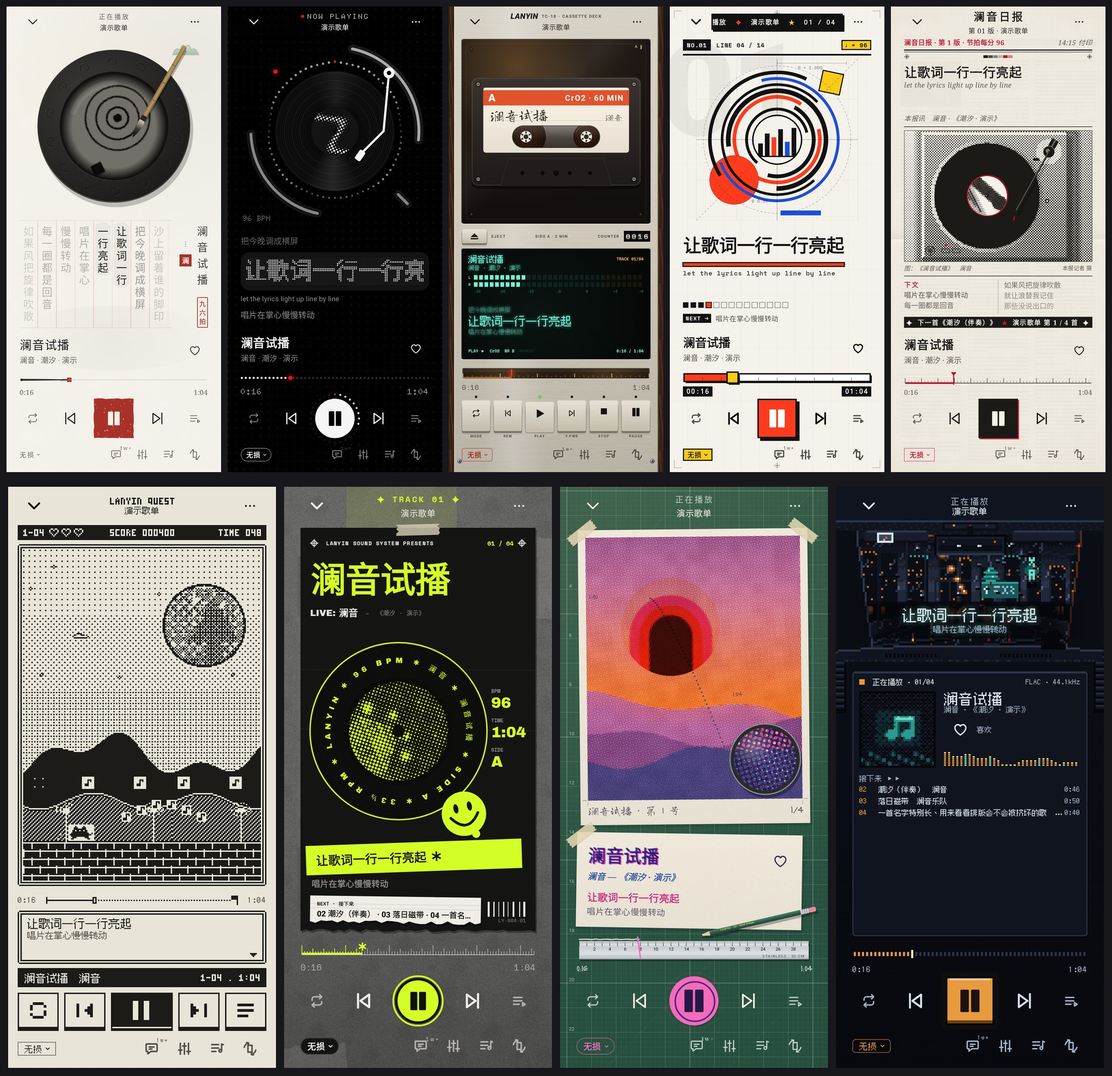
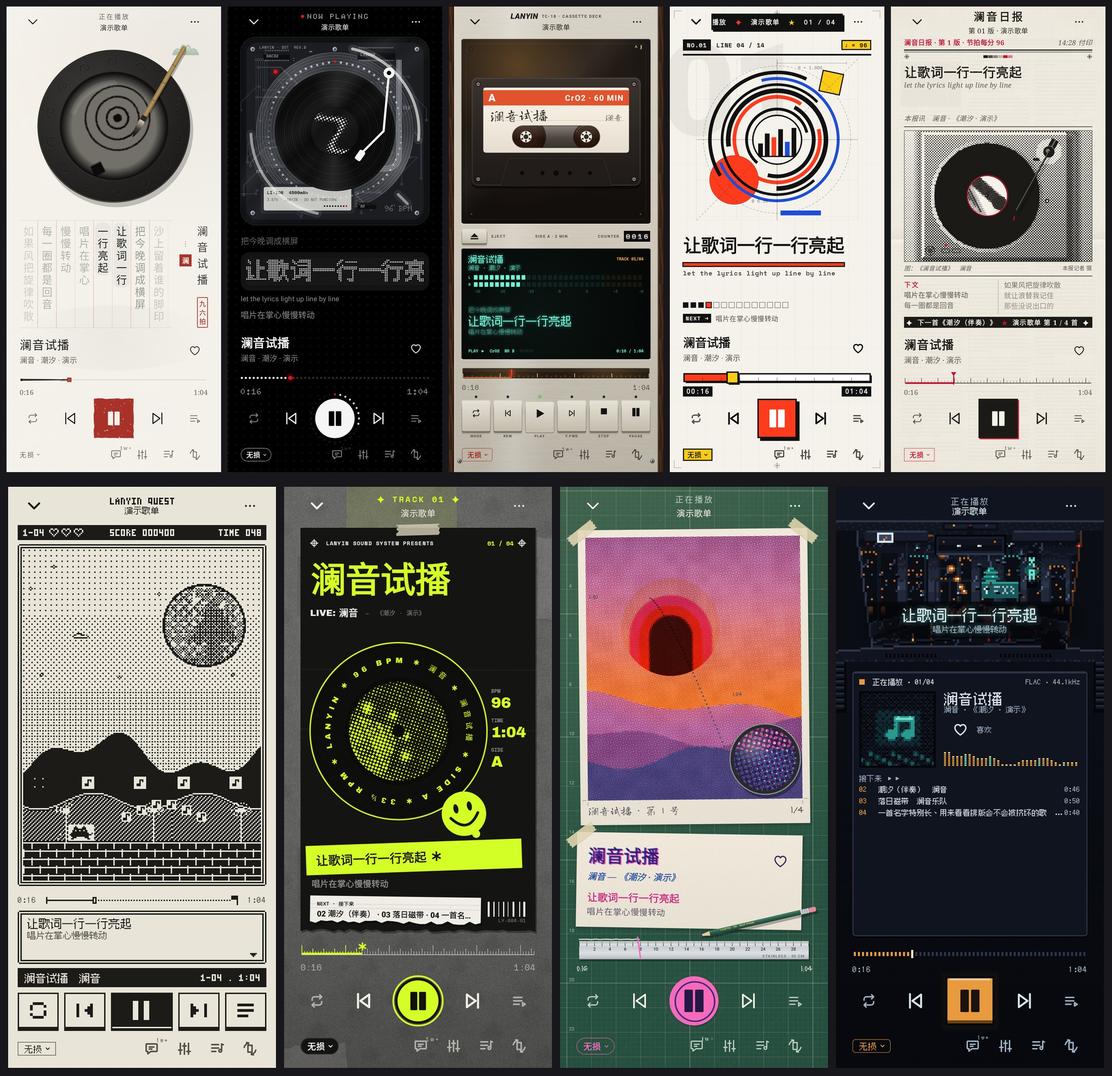
点: seen through its clear back — the board, a coil under the record, the light strips
- Player: the record sits on the device's insides seen through smoked acrylic: a printed
  circuit board with routed traces and vias and a hatched ground pour, chips with their pins and
  markings, passives scattered over it, a pale flex cable folding to the edge, the battery under
  its label, screws at the corners, silk-screen labels; a charging coil of silver-grey wire under
  the record, the light strips round it lit by the bass, mids and treble. All in the theme's
  greys, the red dot still the only colour. The still parts are drawn once into a picture for
  their size; the acrylic's edge and sheen lie over everything. Landscape uses the same back.
- README and PLAN updated (M20 done: all nine themes upgraded); the 点 sheet regenerated.

Claude-Session: https://claude.ai/code/session_01B9QYm7eqM8MabVq3G7cMEc

Changed region(s): [[0.2168, 0.0312, 0.4027, 0.2181]]

diff --git a/music-player/app/src/main/java/io/lanyin/player/ui/design/Gadget.kt b/music-player/app/src/main/java/io/lanyin/player/ui/design/Gadget.kt
@@ -1,0 +1,240 @@
+package io.lanyin.player.ui.design
+
+import androidx.compose.foundation.layout.Box
+import androidx.compose.foundation.layout.BoxScope
+import androidx.compose.runtime.Composable
+import androidx.compose.ui.Modifier
+import androidx.compose.ui.draw.CacheDrawScope
+import androidx.compose.ui.draw.drawWithCache
+import androidx.compose.ui.geometry.CornerRadius
+import androidx.compose.ui.geometry.Offset
+import androidx.compose.ui.geometry.Size
+import androidx.compose.ui.graphics.Brush
+import androidx.compose.ui.graphics.Color
+import androidx.compose.ui.graphics.ImageBitmap
+import androidx.compose.ui.graphics.Path
+import androidx.compose.ui.graphics.StrokeCap
+import androidx.compose.ui.graphics.StrokeJoin
+import androidx.compose.ui.graphics.drawscope.CanvasDrawScope
+import androidx.compose.ui.graphics.drawscope.DrawScope
+import androidx.compose.ui.graphics.drawscope.Stroke
+import androidx.compose.ui.graphics.drawscope.rotate
+import androidx.compose.ui.text.TextMeasurer
+import androidx.compose.ui.text.TextStyle
+import androidx.compose.ui.text.drawText
+import androidx.compose.ui.text.font.FontWeight
+import androidx.compose.ui.text.rememberTextMeasurer
+import androidx.compose.ui.unit.sp
+import io.lanyin.player.ui.theme.SpaceMonoFamily
+import kotlin.math.PI
+import kotlin.math.cos
+import kotlin.math.sin
+
+/*
+ * 点's device, seen through its clear back: smoked acrylic over the board. A printed circuit
+ * board with its traces and vias, the chips with their markings, a charging coil of silver-grey
+ * wire where the record sits, a pale flex cable folding away to the edge, the battery under its label and the
+ * screws that hold it all; drawn once into a picture for its size. The lights and the record go
+ * on top.
+ */
+
+object Gadget {
+    val Board = Color(0xFF1B1D21)
+    val Trace = Color(0xFF3B3F47)
+    // Everything inside is in the theme's greys: the one colour stays the red dot.
+    val Wire = Color(0xFF8E9298)
+    val Flex = Color(0xFFB9BCC1)
+    val Chip = Color(0xFF0C0D0F)
+    val Silk = Color(0xFFD9D9D4)
+    val Steel = Color(0xFF9EA2A8)
+    val Acrylic = Color(0xFF101114)
+}
+
+/**
+ * The clear back with the board under it, filling the box with rounded corners; [coil] is where
+ * the charging coil sits (the record's centre) as fractions of the box, [coilRadius] its radius
+ * as a fraction of the box's smaller side. [content] goes on top: the lights, the record.
+ */
+@Composable
+fun ClearBack(modifier: Modifier = Modifier, coil: Offset = Offset(0.5f, 0.48f), coilRadius: Float = 0.42f, content: @Composable BoxScope.() -> Unit) {
+    val measurer = rememberTextMeasurer()
+    Box(
+        modifier.drawWithCache {
+            val picture = boardPicture(this, measurer, coil, coilRadius)
+            onDrawBehind { drawImage(picture) }
+        },
+    ) {
+        content()
+        // The acrylic's sheen over everything: a broad soft streak across the corner.
+        Box(
+            Modifier.matchParentSize().drawWithCache {
+                val streak = Brush.linearGradient(
+                    0f to Color.Transparent, 0.32f to Color.Transparent, 0.4f to Color.White.copy(alpha = 0.06f),
+                    0.46f to Color.Transparent, 0.52f to Color.White.copy(alpha = 0.03f), 0.56f to Color.Transparent, 1f to Color.Transparent,
+                    start = Offset.Zero, end = Offset(size.width, size.height),
+                )
+                val corner = CornerRadius(28f * density)
+                onDrawBehind {
+                    drawRoundRect(streak, cornerRadius = corner)
+                    // The edge of the acrylic catching the light.
+                    drawRoundRect(Color.White.copy(alpha = 0.12f), cornerRadius = corner, style = Stroke(1f * density))
+                    drawRoundRect(Color.Black.copy(alpha = 0.5f), Offset(1.5f * density, 1.5f * density), Size(size.width - 3f * density, size.height - 3f * density), CornerRadius(26.5f * density), style = Stroke(1f * density))
+                }
+            },
+        )
+    }
+}
+
+private fun boardPicture(scope: CacheDrawScope, measurer: TextMeasurer, coil: Offset, coilRadius: Float): ImageBitmap {
+    val w = scope.size.width
+    val h = scope.size.height
+    val image = ImageBitmap(w.toInt().coerceAtLeast(1), h.toInt().coerceAtLeast(1))
+    CanvasDrawScope().draw(scope, scope.layoutDirection, androidx.compose.ui.graphics.Canvas(image), scope.size) {
+        drawBoard(measurer, Offset(w * coil.x, h * coil.y), minOf(w, h) * coilRadius)
+    }
+    return image
+}
+
+/** Draws the device's inside and its clear back, for the whole draw area. */
+private fun DrawScope.drawBoard(measurer: TextMeasurer, coilAt: Offset, coilR: Float) {
+    val w = size.width
+    val h = size.height
+    val d = density
+    val corner = CornerRadius(28f * d)
+    val rnd = java.util.Random(19)
+    // The frame and, inside it, the board.
+    drawRoundRect(Gadget.Acrylic, cornerRadius = corner)
+    val inset = 10f * d
+    val board = Size(w - inset * 2, h - inset * 2)
+    drawRoundRect(Gadget.Board, Offset(inset, inset), board, CornerRadius(20f * d))
+    // A fine hatch of the ground pour.
+    var x = inset
+    while (x < w - inset) {
+        drawLine(Color.White.copy(alpha = 0.012f), Offset(x, inset), Offset(x + h * 0.3f, inset + h * 0.3f), d)
+        x += 7f * d
+    }
+    // Traces: runs across and down with 45° bends, ending in vias; avoiding nothing, as a board does.
+    fun trace(points: List<Offset>, width: Float = 1.2f * d) {
+        val p = Path().apply {
+            moveTo(points[0].x, points[0].y)
+            for (k in 1 until points.size) lineTo(points[k].x, points[k].y)
+        }
+        drawPath(p, Gadget.Trace, style = Stroke(width, cap = StrokeCap.Round, join = StrokeJoin.Round))
+        for (end in listOf(points.first(), points.last())) {
+            drawCircle(Gadget.Trace, 2.6f * d, end)
+            drawCircle(Gadget.Board, 1.1f * d, end)
+        }
+    }
+    for (k in 0 until 26) {
+        val sx = inset + 14f * d + rnd.nextFloat() * (board.width - 28f * d)
+        val sy = inset + 14f * d + rnd.nextFloat() * (board.height - 28f * d)
+        val run1 = (rnd.nextFloat() - 0.5f) * w * 0.4f
+        val diag = (10f + rnd.nextFloat() * 30f) * d * (if (rnd.nextBoolean()) 1f else -1f)
+        val run2 = (rnd.nextFloat() - 0.5f) * h * 0.25f
+        val a = Offset(sx, sy)
+        val b = Offset(sx + run1, sy)
+        val c = Offset(b.x + diag, b.y + kotlin.math.abs(diag))
+        val e = Offset(c.x, (c.y + run2).coerceIn(inset + 8f * d, h - inset - 8f * d))
+        trace(listOf(a, b, c, e), if (k % 5 == 0) 2.2f * d else 1f * d)
+    }
+    // A bus of parallel traces down the side.
+    for (k in 0 until 6) {
+        val bx = inset + 18f * d + k * 4f * d
+        trace(listOf(Offset(bx, h * 0.12f), Offset(bx, h * 0.6f), Offset(bx + 30f * d, h * 0.6f + 30f * d)), 0.9f * d)
+    }
+    // The charging coil under the record: enamelled wire wound round and round, in silver-grey,
+    // a lit band across it where the acrylic catches the light.
+    for (k in 0 until 22) {
+        val r = coilR * (0.62f + 0.018f * k)
+        drawCircle(Gadget.Wire.copy(alpha = 0.32f + 0.18f * (k % 2)), r, coilAt, style = Stroke(1.6f * d))
+    }
+    drawCircle(
+        Brush.sweepGradient(0f to Color.Transparent, 0.08f to Color.White.copy(alpha = 0.18f), 0.16f to Color.Transparent, 0.58f to Color.Transparent, 0.66f to Color.White.copy(alpha = 0.1f), 0.74f to Color.Transparent, 1f to Color.Transparent, center = coilAt),
+        coilR * 0.81f, coilAt, style = Stroke(coilR * 0.4f),
+    )
+    drawCircle(Color.Black.copy(alpha = 0.35f), coilR * 0.6f, coilAt)
+    // The coil's leads.
+    trace(listOf(coilAt + Offset(coilR * 1.0f, 0f), coilAt + Offset(coilR * 1.1f, coilR * 0.1f), coilAt + Offset(coilR * 1.1f, coilR * 0.6f)), 2f * d)
+    // Chips: black packages with pins along their sides and their markings in white.
+    val small = TextStyle(fontFamily = SpaceMonoFamily, fontSize = (7f / fontScale).sp, color = Gadget.Silk.copy(alpha = 0.75f))
+    val chipMark = TextStyle(fontFamily = SpaceMonoFamily, fontWeight = FontWeight.Bold, fontSize = (7.5f / fontScale).sp, color = Gadget.Silk.copy(alpha = 0.6f))
+    fun chip(at: Offset, cw: Float, ch: Float, mark: String, pins: Boolean = true) {
+        if (pins) {
+            var px = at.x + 3f * d
+            while (px < at.x + cw - 3f * d) {
+                drawRect(Gadget.Steel.copy(alpha = 0.7f), Offset(px, at.y - 2.5f * d), Size(1.4f * d, 2.5f * d))
+                drawRect(Gadget.Steel.copy(alpha = 0.7f), Offset(px, at.y + ch), Size(1.4f * d, 2.5f * d))
+                px += 3.2f * d
+            }
+        }
+        drawRoundRect(Gadget.Chip, at, Size(cw, ch), CornerRadius(1.5f * d))
+        drawRoundRect(Color.White.copy(alpha = 0.05f), at, Size(cw, ch * 0.4f), CornerRadius(1.5f * d))
+        drawCircle(Color.White.copy(alpha = 0.2f), 1.2f * d, at + Offset(3.5f * d, 3.5f * d))
+        drawText(measurer, mark, at + Offset(5f * d, ch / 2f - 5f * d), chipMark)
+    }
+    chip(Offset(w * 0.62f, h * 0.06f), w * 0.2f, h * 0.06f, "LY8250")
+    chip(Offset(w * 0.12f, h * 0.075f), w * 0.14f, h * 0.045f, "DAC32")
+    chip(Offset(w * 0.62f, h * 0.88f), w * 0.1f, h * 0.035f, "RF", pins = false)
+    // Little passives scattered: capacitors in tan, resistors in black with their ends.
+    for (k in 0 until 40) {
+        val px = inset + 8f * d + rnd.nextFloat() * (board.width - 16f * d)
+        val py = inset + 8f * d + rnd.nextFloat() * (board.height - 16f * d)
+        if ((Offset(px, py) - coilAt).getDistance() < coilR * 1.06f) continue
+        val vertical = rnd.nextBoolean()
+        val s = if (vertical) Size(2.4f * d, 4.6f * d) else Size(4.6f * d, 2.4f * d)
+        val cap = rnd.nextInt(3) != 0
+        drawRect(if (cap) Color(0xFF5E6268) else Gadget.Chip, Offset(px, py), s)
+        val end = if (vertical) Size(s.width, 1f * d) else Size(1f * d, s.height)
+        drawRect(Gadget.Steel, Offset(px, py), end)
+        drawRect(Gadget.Steel, Offset(px + s.width - end.width, py + s.height - end.height), end)
+    }
+    // Silk-screen labels.
+    drawText(measurer, "LANYIN · DOT  REV.B", Offset(inset + 24f * d, inset + 3f * d), small)
+    drawText(measurer, "J1", Offset(w * 0.3f, h * 0.9f), small)
+    drawText(measurer, "C12", Offset(w * 0.86f, h * 0.36f), small)
+    drawText(measurer, "TP3 ○", Offset(w * 0.08f, h * 0.7f), small)
+    // The flex cable: an amber ribbon folding from the main chip down the right edge.
+    val ribbon = Path().apply {
+        val x0 = w * 0.84f
+        moveTo(x0, h * 0.12f)
+        lineTo(x0, h * 0.62f)
+        quadraticTo(x0, h * 0.7f, x0 - w * 0.08f, h * 0.7f)
+        lineTo(w * 0.58f, h * 0.7f)
+    }
+    // Pale grey film, and the lines in it showing through as stripes.
+    drawPath(ribbon, Gadget.Flex.copy(alpha = 0.55f), style = Stroke(10f * d, join = StrokeJoin.Round))
+    drawPath(ribbon, Color(0xFF4A4D53).copy(alpha = 0.7f), style = Stroke(6.5f * d, join = StrokeJoin.Round))
+    drawPath(ribbon, Gadget.Flex.copy(alpha = 0.5f), style = Stroke(3.5f * d, join = StrokeJoin.Round))
+    drawPath(ribbon, Color(0xFF4A4D53).copy(alpha = 0.7f), style = Stroke(1f * d, join = StrokeJoin.Round))
+    drawRect(Gadget.Chip, Offset(w * 0.56f, h * 0.7f - 7f * d), Size(8f * d, 14f * d))
+    // The battery along the foot, under its label.
+    val batTop = h * 0.78f
+    val bat = Offset(inset + 26f * d, batTop)
+    val batSize = Size(w * 0.5f, h * 0.16f)
+    drawRoundRect(Color(0xFF26282D), bat, batSize, CornerRadius(6f * d))
+    drawRoundRect(Gadget.Silk.copy(alpha = 0.9f), bat + Offset(6f * d, 6f * d), Size(batSize.width - 12f * d, batSize.height - 12f * d), CornerRadius(3f * d))
+    val label = TextStyle(fontFamily = SpaceMonoFamily, fontWeight = FontWeight.Bold, fontSize = (8f / fontScale).sp, color = Color(0xFF111214))
+    val fine = TextStyle(fontFamily = SpaceMonoFamily, fontSize = (6.5f / fontScale).sp, color = Color(0xFF111214).copy(alpha = 0.75f))
+    drawText(measurer, "LI-ION  4500mAh", bat + Offset(12f * d, 10f * d), label)
+    drawText(measurer, "3.87V · LANYIN · DO NOT PUNCTURE", bat + Offset(12f * d, 24f * d), fine)
+    // A row of dots on the label: the maker's mark.
+    for (k in 0 until 8) drawCircle(Color(0xFF111214), 1.4f * d, bat + Offset(batSize.width - 20f * d - k * 5f * d, batSize.height - 14f * d))
+    drawCircle(Color(0xFFD71921), 1.6f * d, bat + Offset(batSize.width - 20f * d + 5f * d, batSize.height - 14f * d))
+    // The screws: in the four corners of the board and one at the head.
+    val screws = listOf(
+        Offset(inset + 12f * d, inset + 12f * d), Offset(w - inset - 12f * d, inset + 12f * d),
+        Offset(inset + 12f * d, h - inset - 12f * d), Offset(w - inset - 12f * d, h - inset - 12f * d),
+        Offset(w * 0.5f, inset + 12f * d),
+    )
+    screws.forEachIndexed { k, at -> drawScrewHead(at, 4.4f * d, 20f + k * 37f) }
+}
+
+/** A small screw head, seen from above: steel with a lit edge and a cross recess turned to [deg]. */
+private fun DrawScope.drawScrewHead(at: Offset, r: Float, deg: Float) {
+    drawCircle(Color.Black.copy(alpha = 0.5f), r * 1.15f, at + Offset(0.6f * density, 0.8f * density))
+    drawCircle(Brush.radialGradient(listOf(Color(0xFFD7DADF), Gadget.Steel, Color(0xFF5C6066)), at - Offset(r * 0.4f, r * 0.4f), r * 1.6f), r, at)
+    rotate(deg, at) {
+        drawLine(Color(0xFF2A2C30), at - Offset(r * 0.6f, 0f), at + Offset(r * 0.6f, 0f), r * 0.28f)
+        drawLine(Color(0xFF2A2C30), at - Offset(0f, r * 0.6f), at + Offset(0f, r * 0.6f), r * 0.28f)
+    }
+}

diff --git a/music-player/app/src/main/java/io/lanyin/player/ui/player/PortraitStages.kt b/music-player/app/src/main/java/io/lanyin/player/ui/player/PortraitStages.kt
@@ -143,10 +143,18 @@ private fun DevicePortrait(stage: StageContext, onShowLyrics: () -> Unit) {
 @Composable
 private fun DotPortrait(stage: StageContext, onShowLyrics: () -> Unit) {
     Column(Modifier.fillMaxSize()) {
-        Box(Modifier.weight(1f).fillMaxWidth()) {
-            GlyphLights(stage.state, Modifier.matchParentSize())
-            StageArtwork(stage, Modifier.fillMaxSize().then(stage.dismissDrag), heightFraction = 0.72f, onClick = onShowLyrics)
-            GlyphTempo(stage.state, Modifier.align(Alignment.BottomStart).padding(4.dp))
+        // The device's clear back: the board, the coil under the record, the light strips.
+        androidx.compose.foundation.layout.BoxWithConstraints(Modifier.weight(1f).fillMaxWidth().enter(stage.entrance, 1)) {
+            val record = minOf(maxWidth - 40.dp, maxHeight * 0.72f) / 2
+            io.lanyin.player.ui.design.ClearBack(
+                Modifier.fillMaxSize(),
+                coilRadius = record * 1.16f / minOf(maxWidth, maxHeight),
+                coil = androidx.compose.ui.geometry.Offset(0.5f, 0.5f),
+            ) {
+                GlyphLights(stage.state, Modifier.matchParentSize())
+                StageArtwork(stage, Modifier.fillMaxSize().then(stage.dismissDrag), heightFraction = 0.72f, onClick = onShowLyrics)
+                GlyphTempo(stage.state, Modifier.align(Alignment.BottomEnd).padding(end = 30.dp, bottom = 22.dp))
+            }
         }
         DotMatrixLyrics(stage, Modifier.fillMaxWidth().height(184.dp).padding(top = 8.dp).enter(stage.entrance, 2).opensLyrics(onShowLyrics))
     }

diff --git a/music-player/app/src/main/java/io/lanyin/player/ui/player/LandscapeGlyph.kt b/music-player/app/src/main/java/io/lanyin/player/ui/player/LandscapeGlyph.kt
@@ -54,10 +54,18 @@ import kotlinx.coroutines.withContext
 @Composable
 internal fun GlyphStage(stage: StageContext) {
     Row(Modifier.fillMaxSize()) {
-        Box(Modifier.weight(0.42f).fillMaxHeight()) {
-            GlyphLights(stage.state, Modifier.matchParentSize())
-            StageArtwork(stage, Modifier.fillMaxSize().then(stage.dismissDrag), heightFraction = 0.72f)
-            GlyphTempo(stage.state, Modifier.align(androidx.compose.ui.Alignment.BottomStart).padding(4.dp))
+        // The device's clear back: the board, the coil under the record, the light strips.
+        androidx.compose.foundation.layout.BoxWithConstraints(Modifier.weight(0.42f).fillMaxHeight().padding(vertical = 4.dp)) {
+            val record = minOf(maxWidth - 40.dp, maxHeight * 0.72f) / 2
+            io.lanyin.player.ui.design.ClearBack(
+                Modifier.fillMaxSize(),
+                coilRadius = record * 1.16f / minOf(maxWidth, maxHeight),
+                coil = androidx.compose.ui.geometry.Offset(0.5f, 0.5f),
+            ) {
+                GlyphLights(stage.state, Modifier.matchParentSize())
+                StageArtwork(stage, Modifier.fillMaxSize().then(stage.dismissDrag), heightFraction = 0.72f)
+                GlyphTempo(stage.state, Modifier.align(androidx.compose.ui.Alignment.BottomEnd).padding(end = 26.dp, bottom = 18.dp))
+            }
         }
         Spacer(Modifier.width(30.dp))
         DotMatrixLyrics(stage, Modifier.weight(0.58f).fillMaxHeight().enter(stage.entrance, 1))

diff --git a/music-player/docs/PLAN.md b/music-player/docs/PLAN.md
@@ -162,7 +162,7 @@ music-player/
 | **M17 稳** ✅ | 诊断（每一帧的耗时按页面和主题统计，掉帧按安卓的两倍帧时间标准，严重卡顿列出；加载和播放的错误、闪退堆栈；都只存在手机上，导出时去掉 Cookie 和 token）；后台播放引导（电池优化白名单，各厂商自己的后台名单在哪）；定时关闭（15–90 分钟或播完这首，最后半分钟渐弱）；歌词时间微调（按歌记住，所有显示歌词的地方一起变）；设置底部的版本号改为读取真实版本；桌面歌词默认改成「轻」（只有字和淡描边，唱到的字按主题上色），原来的样子保留为「卡片」，加了第二行开关、不透明度和淡入淡出 | 775 个单元测试和截图测试；新增：诊断的统计、去敏和跨进程保存，定时关闭的倒计时和渐弱曲线，歌词平移和按歌保存，三个新面板的截图 |
 | **M18 重绘** ✅ | 新图标：毛笔「澜」配朱印「音」（志莽行书和 Noto Serif SC 的字形转成矢量，单色主题图标用同一层），启动窗口改成墨的纸色 / 墨色；动效：十个主题的换页都改成快起慢收的曲线（去掉游的阶跃和霓的闪烁），播放页下拉一比一跟手（以前按顶栏高度算距离，一拉就收），列表和首页第一次出现时依次浮上来，歌单头图随滚动视差退场，标题滚走后顶上滑下细栏；竖屏完整歌词点空白处回到封面（含机的屏幕和游的掌机屏）；墨：竖排歌词平均分栏不留单字、英文译文不再横躺、整首英文的歌改横排，首页没封面时是一页手撕日历，空状态是一笔圆相；十个主题的歌单页头图放大重做（机的屏幕、影的宽银幕和片名卡、游的卡带、酸的 CD 盒、暮的明信片、霓的灯管招牌、墨的挂轴、格的海报块、点的点阵屏）；游的窗口统一成掌机绿屏的双线框，标题画面加像素山丘；酸的页面不再飘泡泡，「我的」入口是播放列表窗口；机的按键阴影收紧、首页按键嵌进键盘座、磁带架是真磁带；影的首页开场是片头；霓的入口是墙上的小灯牌；暮的行李牌加航空色条和穿绳孔眼；暮播放页唱过的字和没唱的一样淡（笔刷绘制沿用了文本透明度），修好；歌词时间微调的保存改成原子写入（两次写入顺序不定，读的时候可能读到空文件） | 803 个单元测试和截图测试；新增：竖屏点空白回封面（墨、机、游），下拉一点弹回、拉过五分之一收起、快甩收起，图标是自适应图标并带单色层，滚动后的歌单页和图标截图 |
 | **M19 主题重做** ✅ | 去掉「影」；机、游、酸、暮、霓按 [design/concepts](../design/concepts/README.md) 里的样稿重做：暮是孔版工作台，霓是雨夜开车的像素画，机是组合音响，游是整屏 1-bit 游戏，酸是传单墙，横竖屏都有。**暮已完成**：绿色切割垫（夜里是台灯下的黑垫子）、美纹纸胶带贴着的纸、龙藏体铅笔字（GB2312 一级字库裁剪后打包）、两色叠印的标题；封面在后台分色成荧光粉 / 向日葵黄 / 中蓝三张网屏再叠印（按油墨在纸上相乘建查色表，网点过半变成网孔，套准偏一点，测试里同步出图）；首页是今天的海景印刷（太阳跟着时间，天黑后月亮、星星和灯塔光束）、每日推荐纸条、三张分色稿、铆钉色票扇、封面样张、试印稿；播放页的封面是太阳，沿铅笔弧线随进度沉到山后，放大镜里是放大三倍的网点；钢尺进度、橡皮章播放键、纸条迷你播放条、铅笔圈的标签栏；歌单页、我的、分享卡、桌面歌词、加载 / 出错 / 列表结尾记号都换成孔版的。**霓已完成**：27 色调色板和全部像素字；挡风玻璃是 Kotlin 里实时画的像素画（静态层画一次，钠灯、车道线、刹车灯、湿路面倒影、雨、水珠和雨刷每秒 12 帧画在上面，暂停时车停下），首页上投着今晚的路线、播放页上投着歌词；页面是中控屏（像素面板、琥珀色按键、像素进度条），迷你播放条是收音机的 LCD、标签栏是预置键；封面按调色板抖动成像素图，生成封面是像素画（海上月亮、雨中城市、高架、青色招牌）；歌单页、我的、分享卡、桌面歌词和各种记号都换成像素的。**机已完成**：香槟银（深色是黑色阳极氧化）拉丝铝面板，拉丝纹理在 App 里生成一次后平铺；胡桃木和旋钮用样稿的材质渲染器预先渲染成图（旋钮不带指针，指针在 App 里画，这样转动时光照不跟着转）；首页是胡桃木柜里的收音头（七段数码管荧光屏、灯照刻度盘、六个预置键、调谐旋钮）、五碟换碟机（推荐歌单印在 CD 上）、功放（一对暖灯 VU 表，按 VU 表的刻度和弹簧阻尼摆针）、节目存储器（排行榜）和磁带封套（今日推荐）；播放页是卡座：烟色舱门里暖灯照着的磁带，标签上手写歌名，两个卷盘的带量按进度此消彼长、转速随卷径变，机械计数器，荧光屏上是歌名、L/R 电平表（峰值停一下再落）、点阵歌词和时间，灯照磁带刻度是进度条，琴键式走带键；横屏是磁带和荧光屏左右排；迷你播放条是卡座条，标签栏是功放的信号源键；分享卡、桌面歌词、加载 / 出错 / 列表结尾记号和空状态的旋钮都换了。**游已完成**：从绿屏掌机换成整屏 1-bit 游戏，只有墨和纸两色，灰色靠 4×4 有序抖动；像素单位 2dp，游戏窗口是双线框缺角，HUD 用 3×5 小像素字；首页是世界地图（岛按尺寸在 Kotlin 里一次画成位图：海的斜线、沙滩抖动、草、树、小路、船和云；六个地方是六个入口，小猫走到选中的那一关，对话框里按「开始」进入），道具栏、存档（推荐歌单）、高分榜（排行榜）、任务（今日推荐）；播放页是横版关卡：月亮是抖成一位的封面，远山、近山和路灯、砖地分层卷动（静态层按尺寸画一次，按 1/12 秒一步重画），每句歌词一块音符砖，唱到时小猫跳起顶砖，进度是关卡小地图，歌词在对话框里逐字打出；横屏、迷你播放条、墨色菜单栏、卡带歌单页、分享卡和桌面歌词跟着换成一位色。**酸已完成**：从千禧年糖果塑料换成传单墙：灰色水泥墙（噪点贴图在 App 里生成一次后平铺，旧海报撕剩的纸片），黑传单、复印纸、青柠主传单，撕开的底边、美纹纸胶带、订书钉、笑脸贴纸、条形码、套准十字；所有封面印成粗网点的复印件；首页是一面墙：每日推荐的青柠主传单（空心大字的首数、阵容表、可撕的入口纸条、沿着圆排字的 PLAY 贴纸）、胶带贴着的歌单复印件、TOP 4 黑传单；播放页是这首歌的大海报（青柠大字歌名、标签印着网点封面的转动唱片和一圈字、BPM 和时长、斜贴的青柠胶带歌词、撕下的 NEXT 纸条），进度是刻度尺；横屏海报、黑传单迷你播放条、纸条上的胶囊标签栏、会员卡、歌单页复印件、分享卡都换了 | 758 个单元测试和截图测试（影的截图测试一并去掉） |
-| **M20 剩下四个主题升级** | 墨、报、格、点照着 M19 的标准再做一遍：材质在 App 里画，细节多，一个主题一次提交。**墨已完成**（文房书案）：宣纸纹理（帘纹、纤维、斑驳，生成一次后平铺）铺满整个 App；首页每日推荐是一幅挂轴，画里的水墨山水在 App 里画（四层山、雾、披麻皴、苔点、松、亭、渔舟、飞鸟，白天朱红日头，夜里烘云托月），「奏」字印章播放；入口是五方印章，推荐歌单是册页，封面化成水墨（按封面自己的明暗范围拉开浓淡）；播放页唱片换成转动的端砚（刻云砚边、砚池里水墨倒影的封面、台灯高光），毛笔是唱臂，播放时落进砚池、暂停时回到笔山；进度条是一笔浓墨（墨池、飞白、笔锋前的引线、小朱印），播放键是一方朱文印章；迷你播放条是小砚台；歌单页挂轴、分享卡册页、桌面歌词手卷都换了。**报已完成**（一份真报纸）：新闻纸纹理（磨木浆纤维、斑点、云斑，生成一次后平铺）、四边泛黄、播放页透出背面一版的分栏；大标题用活字压印（墨没吃满的小白点做成贴图，用 DstOut 抠在字上，边缘一圈挤出的墨）；报头两边是报眼（天气按时间画、期号、条形码、定价），入口是分类广告，页脚是报社信息；播放页头条边唱边印，配图是一张俯拍唱机的网点照片（静止部分按尺寸网点化成位图一次，唱片和唱臂在上面动）；剪报歌单页（剪刀边、回形针）、剪报分享卡、新闻纸桌面歌词。**格已完成**（瑞士设计工作室）：唱片换成这首歌的同心圆音乐会海报（七道圆环按曲目种子断在不同处、各自转速，红圆随低音、黄方块踩鼓点、蓝条随高音，封面用颜色矩阵压成高反差黑白），图上留着构造线和尺寸标注；入口是色票本的色卡，页边一行版式说明，纸上加套准十字；歌单页和分享卡用同一张海报，迷你播放条是缩小的圆环 | |
+| **M20 剩下四个主题升级** ✅ | 墨、报、格、点照着 M19 的标准再做一遍：材质在 App 里画，细节多，一个主题一次提交。**墨已完成**（文房书案）：宣纸纹理（帘纹、纤维、斑驳，生成一次后平铺）铺满整个 App；首页每日推荐是一幅挂轴，画里的水墨山水在 App 里画（四层山、雾、披麻皴、苔点、松、亭、渔舟、飞鸟，白天朱红日头，夜里烘云托月），「奏」字印章播放；入口是五方印章，推荐歌单是册页，封面化成水墨（按封面自己的明暗范围拉开浓淡）；播放页唱片换成转动的端砚（刻云砚边、砚池里水墨倒影的封面、台灯高光），毛笔是唱臂，播放时落进砚池、暂停时回到笔山；进度条是一笔浓墨（墨池、飞白、笔锋前的引线、小朱印），播放键是一方朱文印章；迷你播放条是小砚台；歌单页挂轴、分享卡册页、桌面歌词手卷都换了。**报已完成**（一份真报纸）：新闻纸纹理（磨木浆纤维、斑点、云斑，生成一次后平铺）、四边泛黄、播放页透出背面一版的分栏；大标题用活字压印（墨没吃满的小白点做成贴图，用 DstOut 抠在字上，边缘一圈挤出的墨）；报头两边是报眼（天气按时间画、期号、条形码、定价），入口是分类广告，页脚是报社信息；播放页头条边唱边印，配图是一张俯拍唱机的网点照片（静止部分按尺寸网点化成位图一次，唱片和唱臂在上面动）；剪报歌单页（剪刀边、回形针）、剪报分享卡、新闻纸桌面歌词。**格已完成**（瑞士设计工作室）：唱片换成这首歌的同心圆音乐会海报（七道圆环按曲目种子断在不同处、各自转速，红圆随低音、黄方块踩鼓点、蓝条随高音，封面用颜色矩阵压成高反差黑白），图上留着构造线和尺寸标注；入口是色票本的色卡，页边一行版式说明，纸上加套准十字；歌单页和分享卡用同一张海报，迷你播放条是缩小的圆环。**点已完成**（透明后盖的小机器）：播放页是烟色亚克力后盖下的电路板（走线和过孔、芯片和丝印、小电容电阻、浅灰排线、电池标签、螺丝，全是黑白灰），唱片放在银灰色线圈上，外面是随音乐亮的灯带，静止部分按尺寸画成一张图只画一次；横屏同一块后盖 | 758 个单元测试和截图测试 |
 
 ## 8. 风险和限制
 
